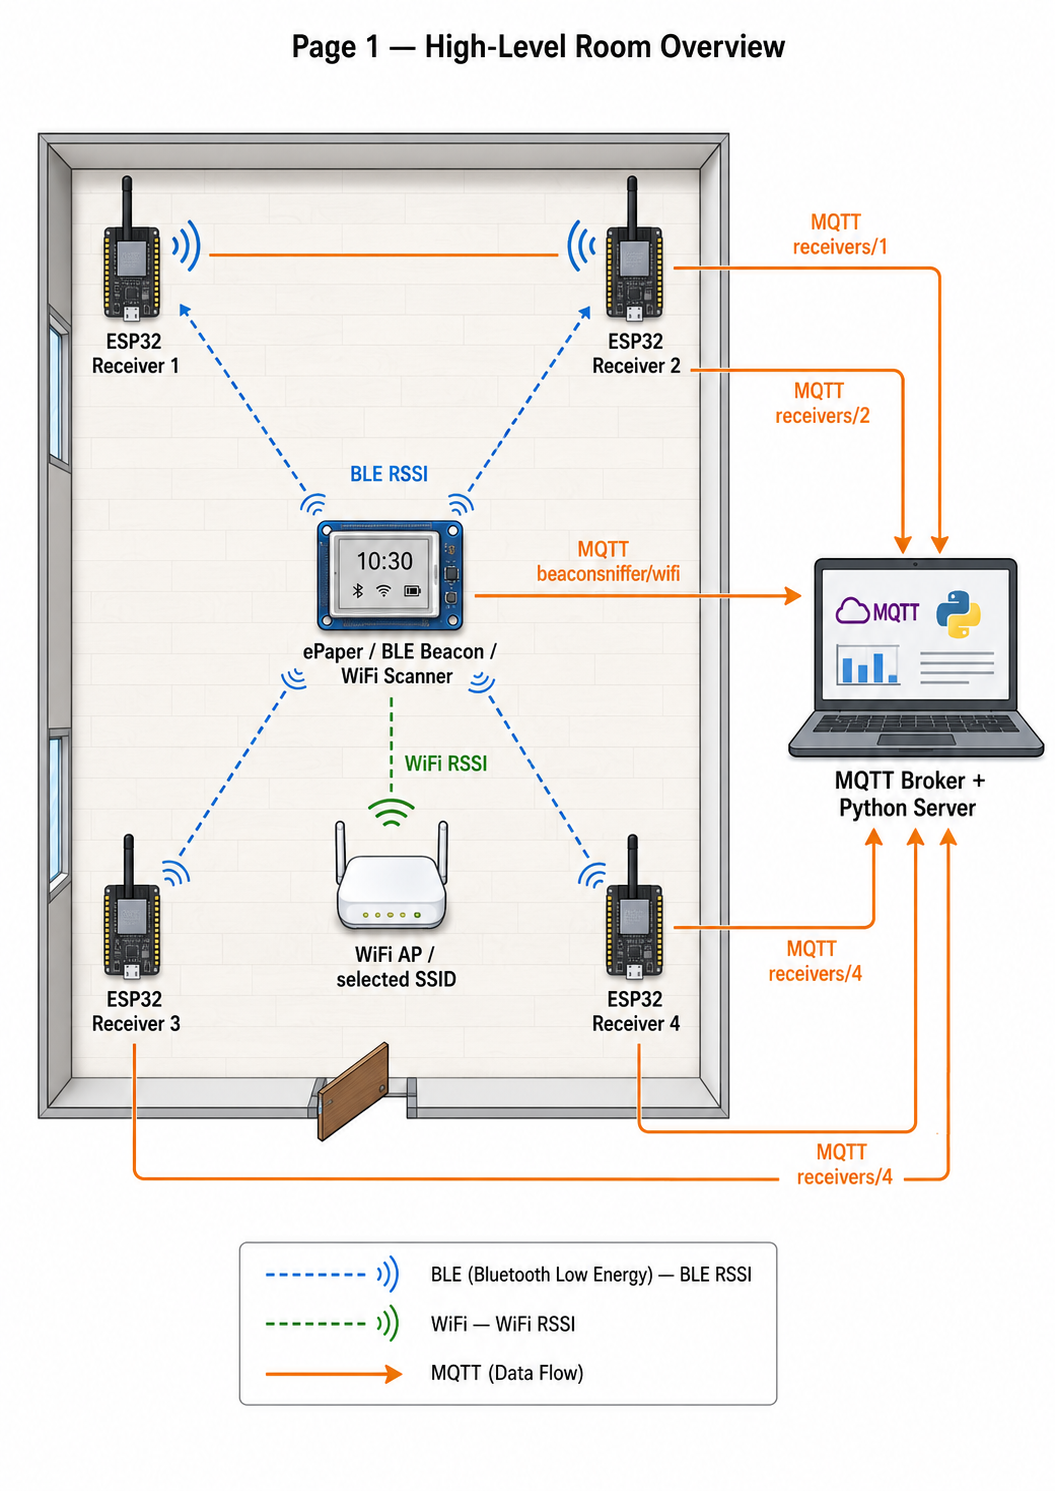
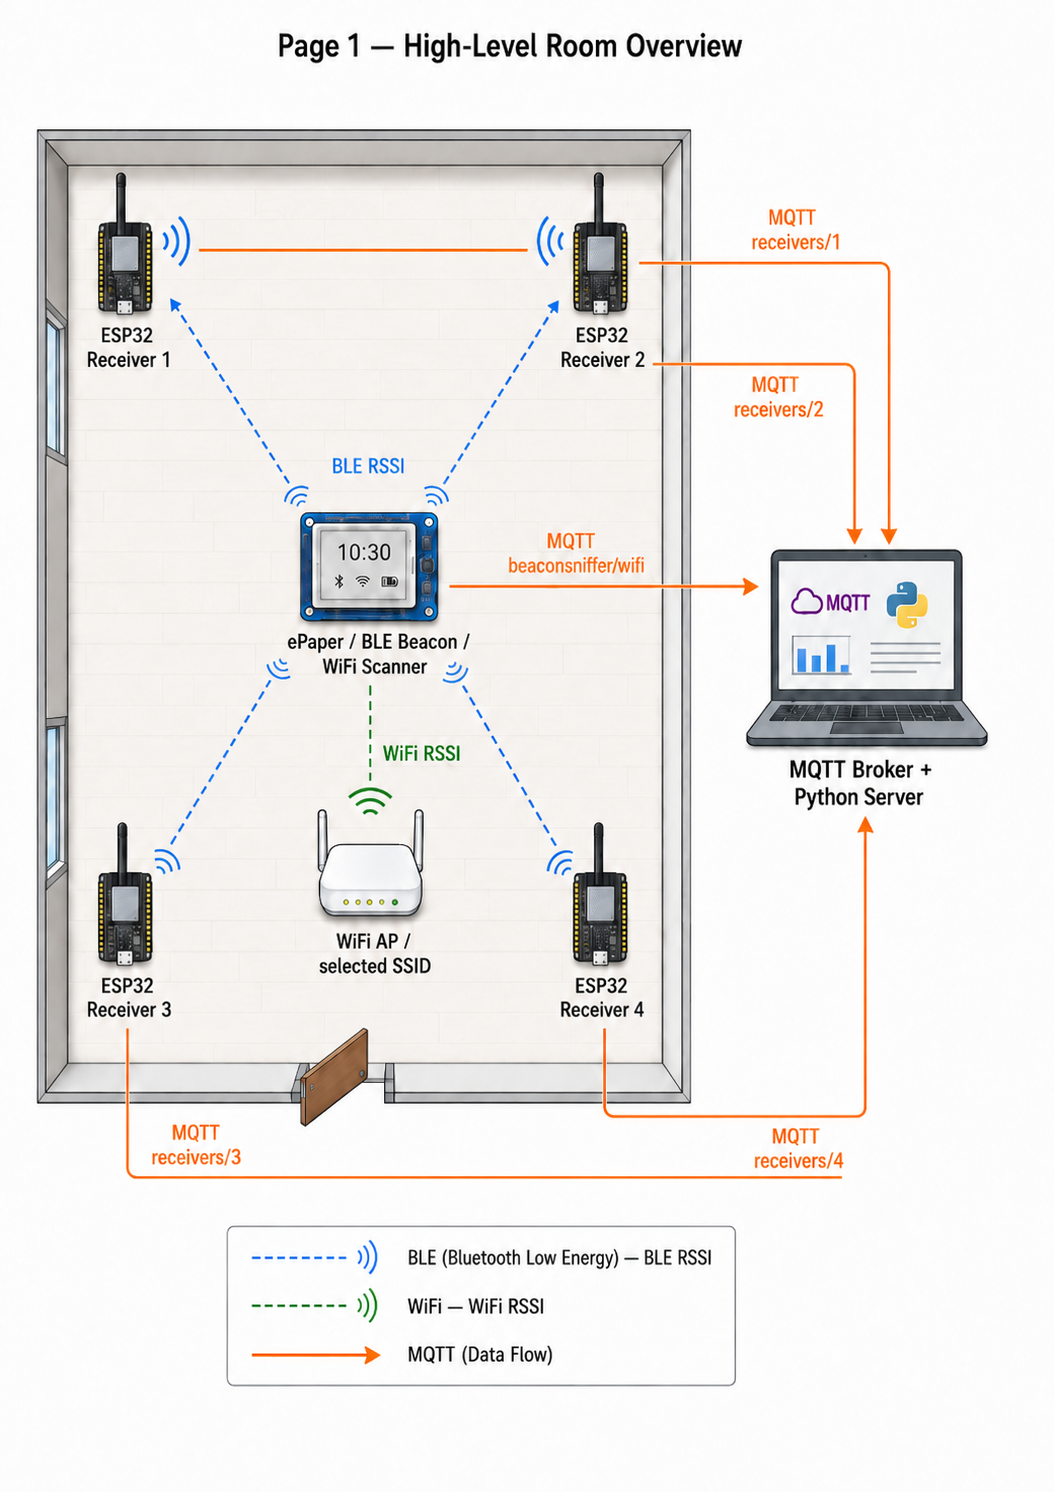
chore: updated ReadMe, updated Overview_Room.png

diff --git a/README.md b/README.md
@@ -96,3 +96,8 @@ python -m pip install -r requirements.txt
 
 Am besten wie immer direkt aus dem Ordner starten, sonst gibts Probleme mit der .env-file!
 
+## Fragen:
+* Was ist eigentlich dieser "Kalman-Filter" genau?
+* Was ist eigentlich der "path-loss-exponent" genau?
+* Was ist eigentlich "Least Square Multilateration" genau?
+